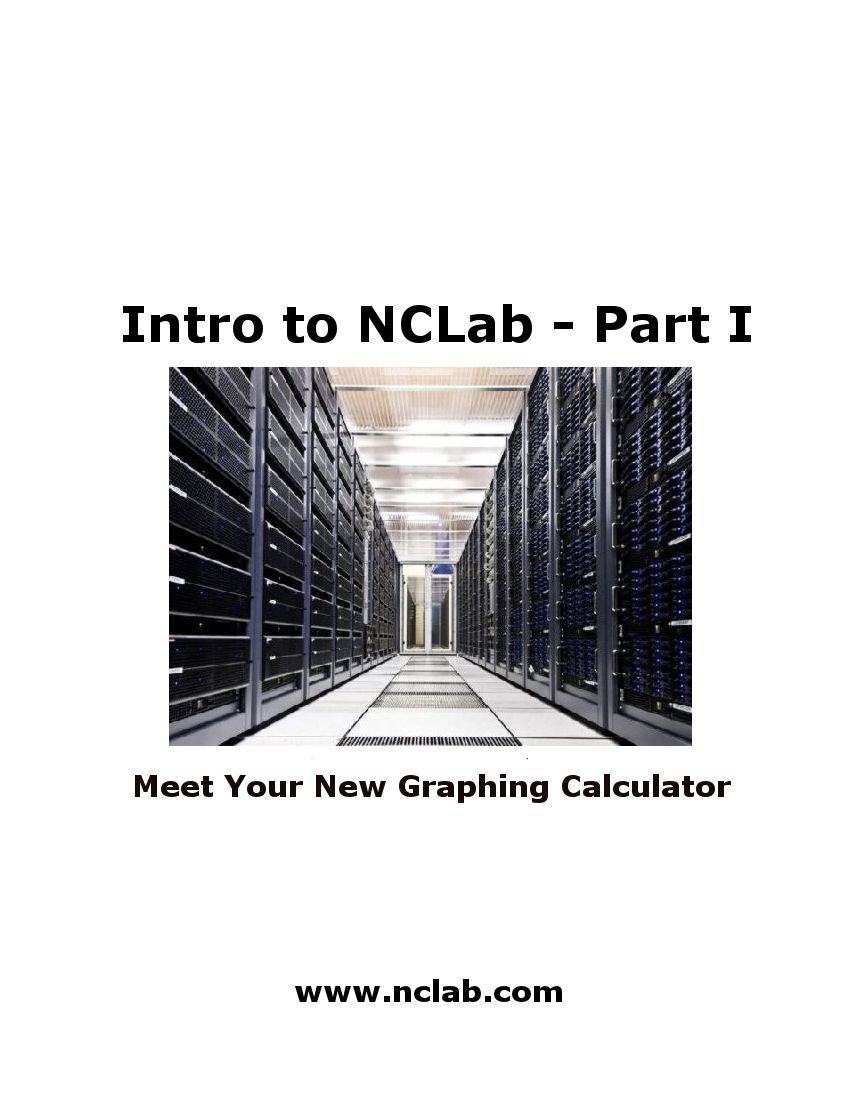
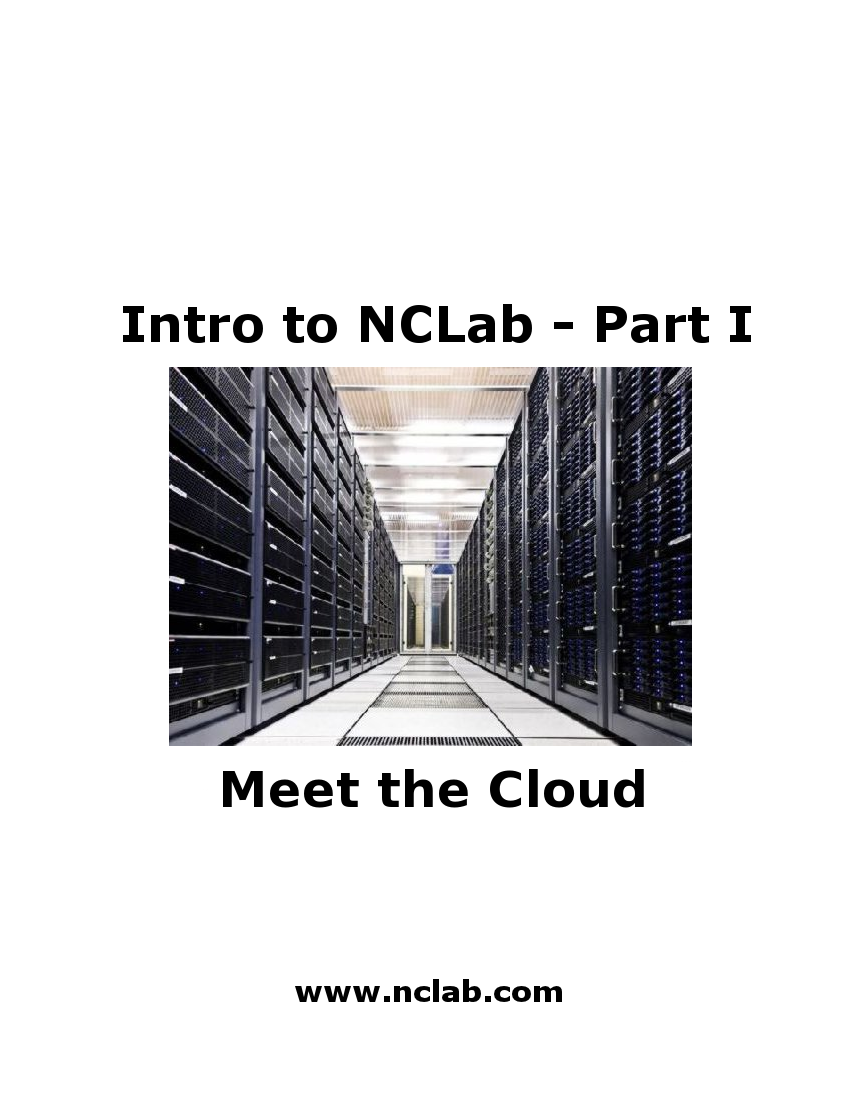
Updating intro

Changed region(s): [[0.151, 0.6721, 0.8455, 0.7332]]

diff --git a/intro/nclab-intro.tex b/intro/nclab-intro.tex
@@ -111,7 +111,7 @@ Numpy, Pylab, Matplotlib, Sympy and other projects.
 
 %%%%%%%%%%%%%%%%%%%%%%%%%%%%%%%%%%%%%%%%%%%%%%%%%%%%%%%%%%%%%%%%%%%%%%%%%
 
-\section{Few Words About Cloud Computing}
+\section{What Is Cloud Computing?}
 
 Cloud Computing sounds like a rocket science, but it is not,
 and it really changes things for the better. Chances are that you are using 
